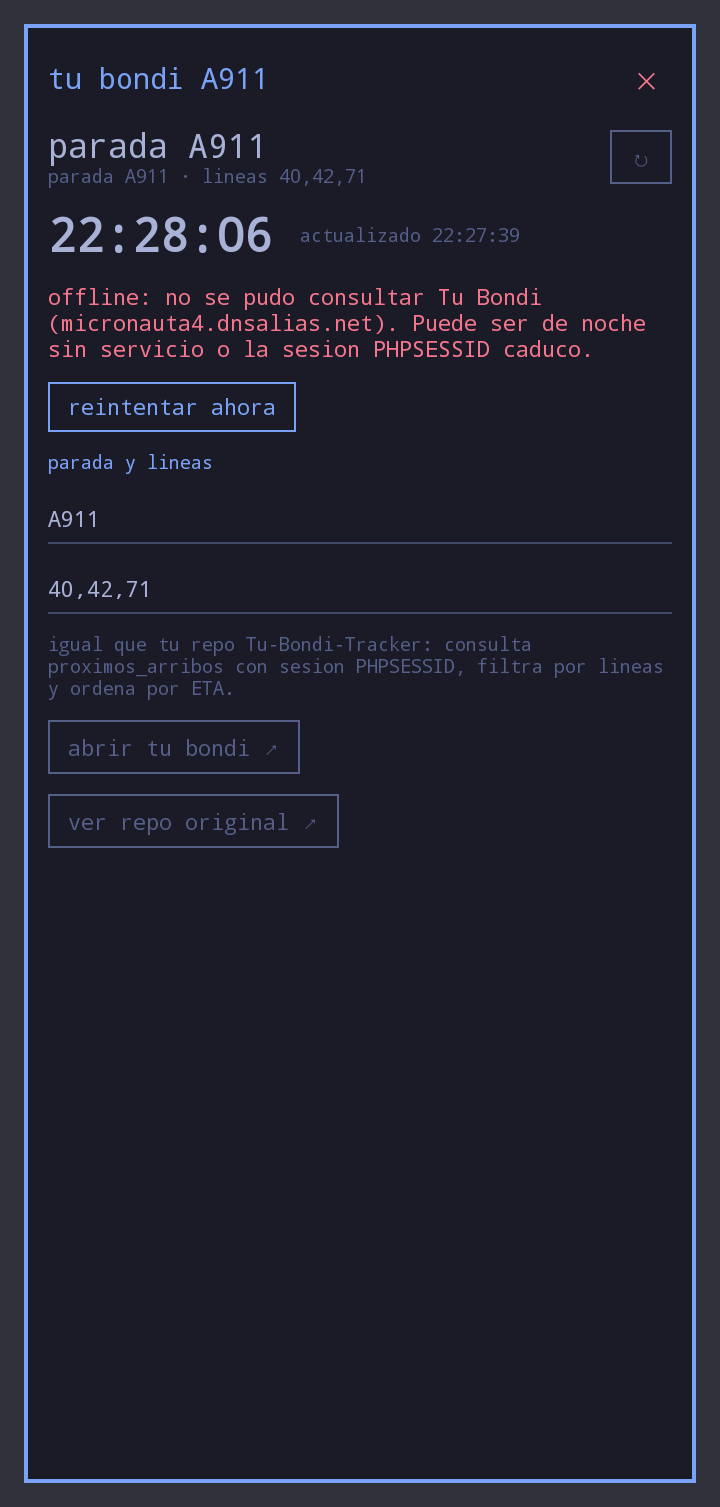
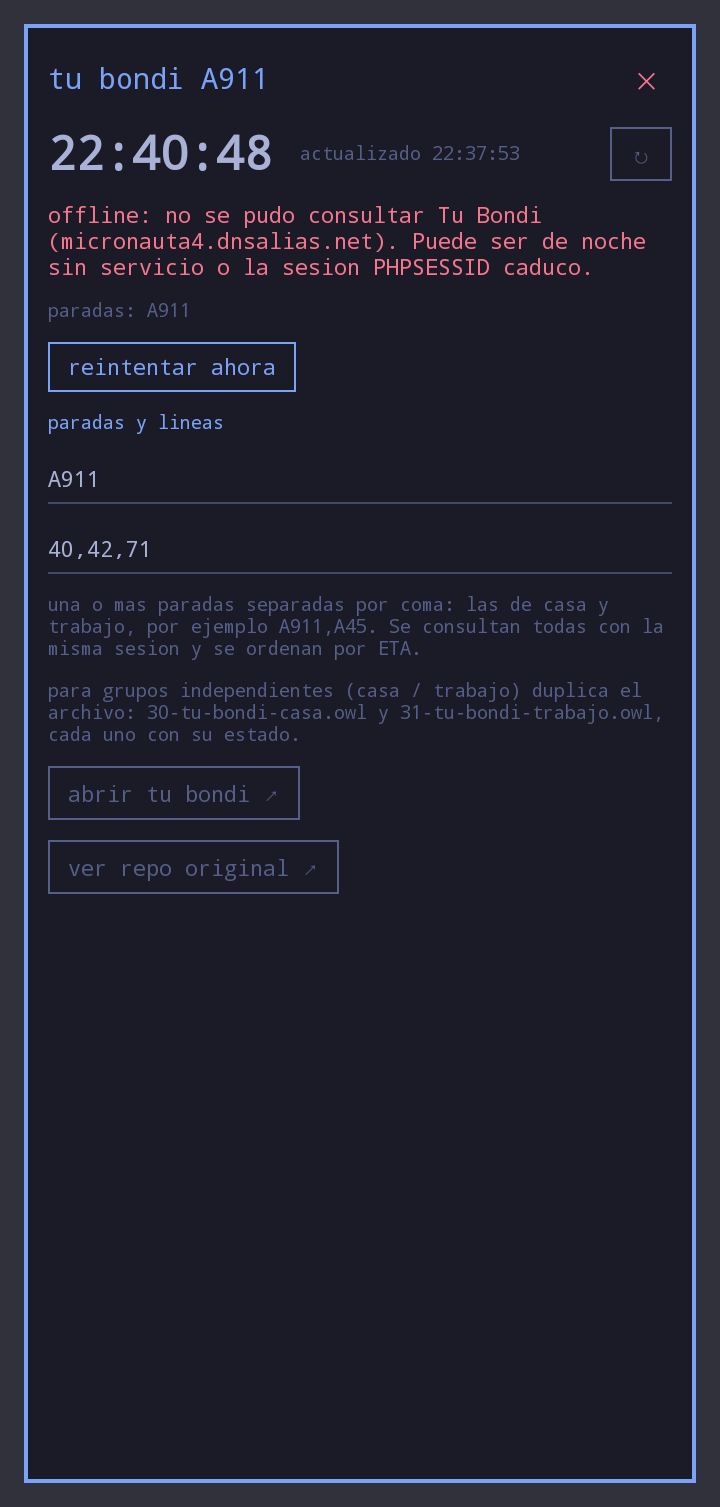
v1.1: multiples paradas configurables (stopsStr), tile mezcla por ETA, screen agrupado por parada

Changed region(s): [[0.0611, 0.0936, 0.9167, 0.5926], [0.8556, 0.0936, 0.9167, 0.1248], [0.4583, 0.5614, 0.4889, 0.5926]]

diff --git a/README.md b/README.md
@@ -1,17 +1,17 @@
 # Tu Bondi · Oma (widget)
 
-Widget de home-screen para [omalauncher](https://github.com/SimonSchubert/omarchy-widgets) que muestra los próximos arribos de **Tu Bondi** en Córdoba. Es la versión widget de [Tu-Bondi-Tracker](https://github.com/LucioB16/Tu-Bondi-Tracker): misma parada, mismas líneas, mismo flujo contra la API municipal, pero sin backend .NET — el widget consulta directo y vive en el teléfono.
+Widget de home-screen para [omalauncher](https://github.com/SimonSchubert/omarchy-widgets) que muestra los próximos arribos de **Tu Bondi** en Córdoba. Es la versión widget de [Tu-Bondi-Tracker](https://github.com/LucioB16/Tu-Bondi-Tracker): mismas paradas, mismas líneas, mismo flujo contra la API municipal, pero sin backend .NET — el widget consulta directo y vive en el teléfono.
 
-Por defecto: parada **A911** (AV. DUARTE QUIROS 1717-1728), líneas **40, 42 y 71**.
+Por defecto: paradas **A911** (AV. DUARTE QUIROS 1717-1728), líneas **40, 42 y 71**. Acepta **una o más paradas** separadas por coma (las de casa y trabajo, por ejemplo `A911,A45`).
 
 ## ¿Qué es este proyecto?
 
 Un widget OWL de un solo archivo (`widget.owl`, ~7 KB) que replica el tablero LED del repo original:
 
-- Fila superior: parada + reloj (se actualiza cada 30 s).
-- Fila central: próximos 2 arribos en el tile (hasta 6 en la vista completa), ordenados por ETA, con línea, destino, distancia, empresa y minutos restantes. Si hay `notificacion`, muestra fila de alerta amarilla.
+- Fila superior: parada(s) + reloj (se actualiza cada 30 s). Con varias paradas muestra `bondi ×N`.
+- Fila central: próximos 2 arribos en el tile (hasta 6 en la vista completa, mezclando todas las paradas y ordenados por ETA), con línea, parada, destino, distancia, empresa y minutos restantes. Si hay `notificacion`, muestra fila de alerta amarilla.
 - Fila inferior: “actualizado HH:mm”.
-- Vista completa (`screen`, toca el tile): los 6 arribos con detalle, avisos, reloj HH:mm:ss y configuración de parada/líneas con `Input` (persisten entre reinicios).
+- Vista completa (`screen`, toca el tile): arribos agrupados por parada con detalle, avisos, reloj HH:mm:ss y configuración de paradas/líneas con `Input` (persisten entre reinicios).
 - Sin servicio (de noche o API caída): muestra “offline / sin arribos” y botón de reintentar, igual que el manejo de errores del backend original.
 
 ## ¿Cómo funciona (de punta a punta)?
@@ -23,14 +23,14 @@ Un widget OWL de un solo archivo (`widget.owl`, ~7 KB) que replica el tablero LE
 └──────────┘              └───────────────────┘              └──────────────┘
       ▲                            │ normaliza a JSON                │
       │                            ▼                                 │
-      │                   {stop, desc, arrivals[], updated, error}     │
+      │                   {stops[], arrivals[] (+stop), updated, error}   │
       │                   filtra por lineas, ordena por ETA           │
       └────────────────── tile 3x3 + screen ─────────────────────────┘
 ```
 
-1. El `cmd` abre sesión con `GET /web/urbano/?conf=cbaciudad` (guarda `PHPSESSID` en un cookiejar temporal) y luego hace `POST /usuario/urbano2_cmd.php` con `conf=cbaciudad`, `codigo=<parada>`, `show80min=true`, `onlygps_array={}`, `cmd=proximos_arribos` — los mismos parámetros que `TuBondiClient.GetArrivalsAsync` en el repo original.
-2. `jq` normaliza `proximos_arribos` a `{line, dest, route, etaTxt, eta, dist, color, op, notif}`. `eta` se extrae igual que `TuBondiGateway.ParseEta`: “arribando/llega” → 0, si no los dígitos (`11min` → 11).
-3. El widget filtra por las líneas configuradas, ordena por `eta` y toma 6 (2 en el tile).
+1. El `cmd` abre **una** sesión con `GET /web/urbano/?conf=cbaciudad` (guarda `PHPSESSID` en un cookiejar temporal) y luego hace **un `POST /usuario/urbano2_cmd.php` por parada** con `conf=cbaciudad`, `codigo=<parada>`, `show80min=true`, `onlygps_array={}`, `cmd=proximos_arribos` — los mismos parámetros que `TuBondiClient.GetArrivalsAsync` en el repo original. Una sola sesión sirve para todas.
+2. `jq` normaliza cada `proximos_arribos` a `{line, dest, route, etaTxt, eta, dist, color, op, notif}` más `stop`, y combina todo en `{stops, arrivals, updated, error}`. `eta` se extrae igual que `TuBondiGateway.ParseEta`: “arribando/llega” → 0, si no los dígitos (`11min` → 11).
+3. El widget filtra por las líneas configuradas, ordena por `eta` y toma 6 (2 en el tile; con varias paradas cada fila indica `línea · parada`).
 4. Si el POST falla o no es JSON, el script imprime `{"error":"offline",...}` y el tile ofrece reintentar, como el `fetchLoop` de `board.js`.
 
 ## Requisitos previos
@@ -58,17 +58,19 @@ Un widget OWL de un solo archivo (`widget.owl`, ~7 KB) que replica el tablero LE
 
 ## Configuración
 
-Sin editar el archivo: abrí la vista completa (tocá el tile) y cambiá el código de parada y las líneas en los campos (se guardan con `persist`):
+Sin editar el archivo: abrí la vista completa (tocá el tile) y cambiá las paradas y las líneas en los campos (se guardan con `persist`):
 
-- Parada: `A911`
+- Paradas: `A911` — una o más, separadas por coma: las de casa y trabajo, por ejemplo `A911,A45`.
 - Líneas: `40,42,71`
 
 Equivalente a las variables del repo original (`Tracker__StopCode`, `Tracker__Lines`). El intervalo de refresco es 60 s (el original usa 25 s con caché de 12 s; en el widget se espacia para no sobrecargar la API municipal) y el reloj va cada 30 s.
 
+Para grupos independientes (casa / trabajo con líneas distintas) duplicá el archivo: `30-tu-bondi-casa.owl` y `31-tu-bondi-trabajo.owl` — cada copia guarda su propio estado.
+
 ## Uso del tablero
 
-- Tile: próximos 2 arribos + aviso + hora de actualización. Tocarlo abre la vista completa.
-- Screen: los 6 arribos con empresa, distancia y avisos; hora actual y de actualización; campos de parada/líneas; botones a Tu Bondi web y al repo original.
+- Tile: próximos 2 arribos (de todas las paradas, ordenados por ETA) + aviso + hora de actualización. Tocarlo abre la vista completa.
+- Screen: arribos agrupados por parada con empresa, distancia y avisos; hora actual y de actualización; campos de paradas/líneas; botones a Tu Bondi web y al repo original.
 - Si la API devuelve `notificacion`, se muestra como fila amarilla (igual que la fila verde intermitente del LED original).
 
 ## Pruebas
@@ -108,7 +110,7 @@ Para probar el layout con datos aunque la API esté caída, este repo trae `api-
 
 **¿Cómo agrego otra línea o parada?**
 
-- En la vista completa cambiá los campos, o editá los `state` por defecto en `widget.owl`.
+- En la vista completa cambiá los campos (paradas separadas por coma), o editá los `state` por defecto (`stopsStr`, `linesStr`) en `widget.owl`.
 
 **¿Problemas con la cookie / sesión?**
 
